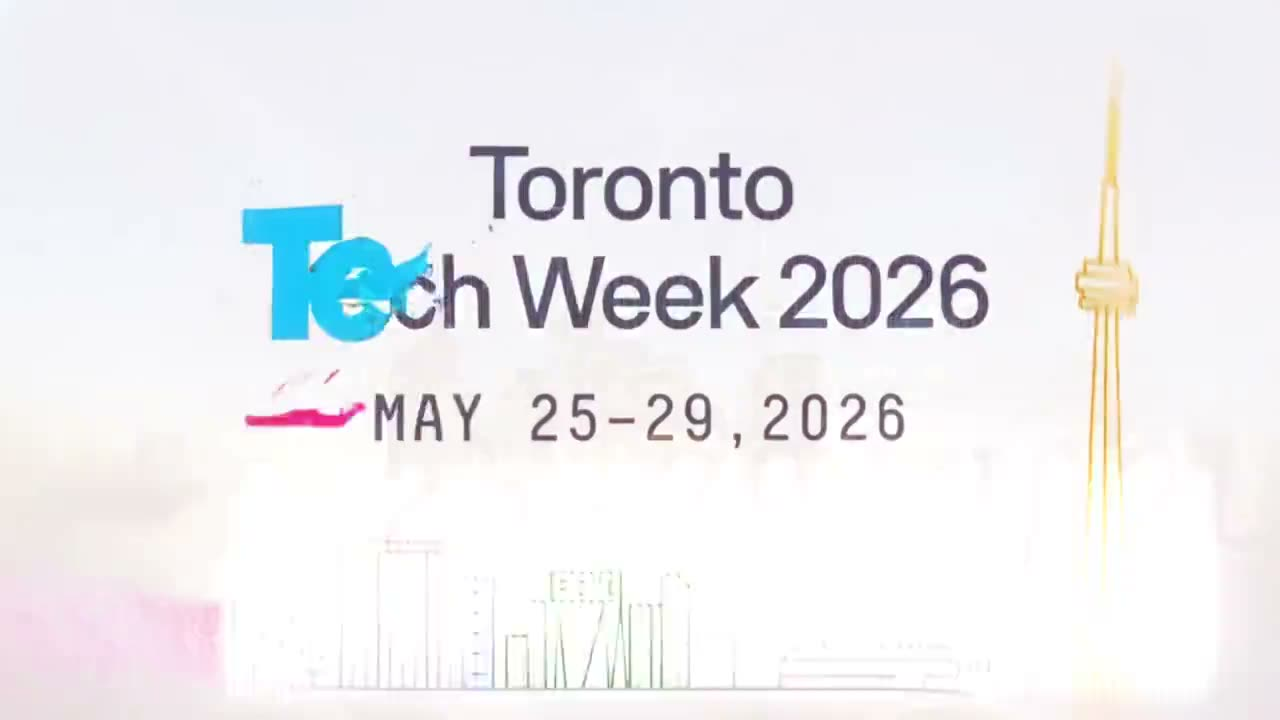
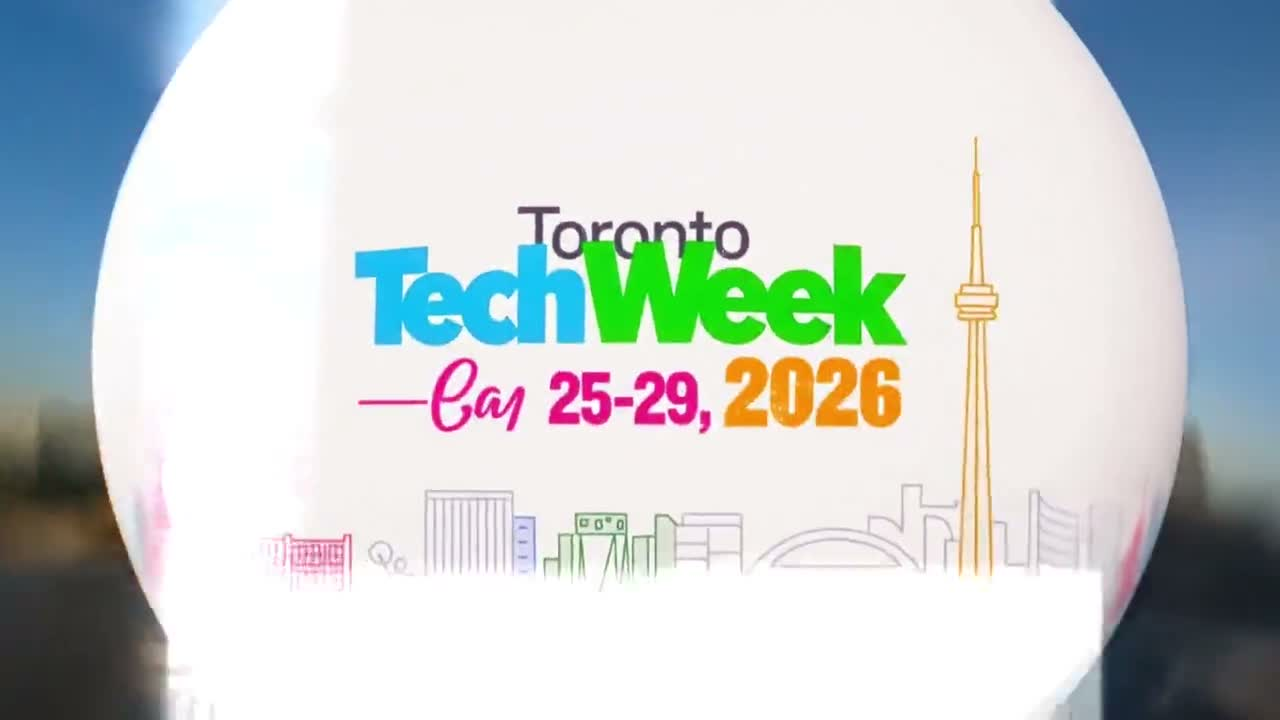
Use circular Toronto Tech Week thumbnail

diff --git a/founder-videos.html b/founder-videos.html
@@ -4,7 +4,7 @@
 <section class="collection-hero reveal"><p class="section-kicker">03 / Founder</p><h1>Founder & startup stories.</h1><p class="lead">Building in public, founder energy, product demos, and stories from startup communities.</p><div class="collection-actions"><a class="btn" href="https://x.com/jeboymotion" target="_blank" rel="noopener">Open @jeboymotion ↗</a><a class="text-link" href="video-work.html">← All video work</a></div></section>
 <section class="collection-grid">
   <article class="collection-item reveal"><div class="collection-video"><video controls playsinline preload="metadata" poster="images/video-thumbs/Da0SbkrOvi7.jpg" src="videos/Startup-week.mp4"></video></div><div class="collection-body"><h2>Startup Week</h2><p>Founder energy and community from a week of building.</p><a class="text-link" href="https://www.instagram.com/jeboyofficial/reel/Da0SbkrOvi7/" target="_blank" rel="noopener">Open original post ↗</a></div></article>
-  <article class="collection-item reveal"><div class="collection-video"><video controls playsinline preload="metadata" poster="images/video-thumbs/DZ23zLDxdpp.jpg?v=2" src="videos/Toronto-tech-week.mp4"></video></div><div class="collection-body"><h2>Toronto Tech Week</h2><p>A recap of Toronto’s startup and technology community.</p><a class="text-link" href="https://www.instagram.com/jeboyofficial/reel/DZ23zLDxdpp/" target="_blank" rel="noopener">Open original post ↗</a></div></article>
+  <article class="collection-item reveal"><div class="collection-video"><video controls playsinline preload="metadata" poster="images/video-thumbs/DZ23zLDxdpp.jpg?v=3" src="videos/Toronto-tech-week.mp4"></video></div><div class="collection-body"><h2>Toronto Tech Week</h2><p>A recap of Toronto’s startup and technology community.</p><a class="text-link" href="https://www.instagram.com/jeboyofficial/reel/DZ23zLDxdpp/" target="_blank" rel="noopener">Open original post ↗</a></div></article>
   <article class="collection-item reveal"><div class="collection-video"><video controls playsinline preload="metadata" poster="images/video-thumbs/inhand-demo-video.jpg" src="videos/inhand-demo-video.mp4"></video></div><div class="collection-body"><h2>Inhand Demo Video</h2><p>A concise product story for a startup demo.</p><a class="text-link" href="video-work.html">Watch in the full portfolio</a></div></article>
   <article class="collection-item reveal"><div class="collection-video"><video controls playsinline preload="metadata" poster="images/video-thumbs/DbVvhLrMIWG.jpg" src="videos/dolly-hackathon-demo.mp4"></video></div><div class="collection-body"><h2>Dolly Hackathon Demo</h2><p>A founder-focused demo created for a hackathon build.</p><a class="text-link" href="https://www.instagram.com/dollysetgo/reel/DbVvhLrMIWG/" target="_blank" rel="noopener">Open original post ↗</a></div></article>
 </section></main></div><script src="js/main.js" defer></script></body></html>

diff --git a/video-work.html b/video-work.html
@@ -6,4 +6,4 @@
 <section class="netflix-section reveal"><div class="netflix-section-heading"><h2>Founder & startup stories</h2><a href="founder-videos.html">View all →</a></div><div class="netflix-row"><a class="netflix-card portrait" href="https://www.instagram.com/dollysetgo/reel/DbVvhLrMIWG/" target="_blank" rel="noopener"><img src="images/video-thumbs/DbVvhLrMIWG.jpg" alt="Founder story"><span>Founder story</span></a><a class="netflix-card" href="https://x.com/jeboymotion/status/2088747633821065670?s=20" target="_blank" rel="noopener"><img src="images/CBC-backend-photo.JPG" alt="Building in public"><span>Building in public</span></a><a class="netflix-card" href="https://www.instagram.com/jeboyofficial/reel/DaDkTh_u3FL/" target="_blank" rel="noopener"><img src="images/video-thumbs/DaDkTh_u3FL.jpg" alt="AI and building"><span>Ideas become products</span></a></div></section>
 <section class="netflix-section reveal"><div class="netflix-section-heading"><h2>Life edits & vlogs</h2><a href="personal-videos.html">View all →</a></div><div class="netflix-row"><a class="netflix-card portrait" href="https://www.instagram.com/jeboymotion/reel/DcU87i9xpJk/" target="_blank" rel="noopener"><img src="images/video-thumbs/DcU87i9xpJk.jpg" alt="Life in motion"><span>Life in motion</span></a><a class="netflix-card" href="https://www.instagram.com/jeboyofficial/reel/DZpw2imOyVN/" target="_blank" rel="noopener"><img src="images/video-thumbs/DZpw2imOyVN.jpg" alt="Off the clock"><span>Off the clock</span></a><a class="netflix-card portrait" href="https://www.instagram.com/jeboyofficial/reel/DanmgzNulTB/" target="_blank" rel="noopener"><img src="images/video-thumbs/DanmgzNulTB.jpg" alt="Personal edit"><span>Personal edit</span></a><a class="netflix-card portrait" href="https://www.instagram.com/jeboyofficial/reel/DbtDjXzOtMM/" target="_blank" rel="noopener"><img src="images/video-thumbs/DbtDjXzOtMM.jpg" alt="Life captured"><span>Life, captured</span></a></div></section>
 <section class="netflix-section reveal"><div class="netflix-section-heading"><h2>Client work · Core Vizuals</h2><a href="https://corevizuals.pixieset.com/videoportfolio/videoportfolio/" target="_blank" rel="noopener">Core Vizuals portfolio ↗</a></div><div class="netflix-row" id="client-work-row"></div></section>
-</main></div><script src="js/page-soundtrack.js?v=1"></script><script src="js/native-video-modal.js?v=33"></script><script src="js/main.js" defer></script></body></html>
+</main></div><script src="js/page-soundtrack.js?v=1"></script><script src="js/native-video-modal.js?v=34"></script><script src="js/main.js" defer></script></body></html>

diff --git a/js/native-video-modal.js b/js/native-video-modal.js
@@ -36,7 +36,7 @@ const thumbnailByVideo = {
   'renn-jewelry.mp4': 'DaIzAoYuklT.jpg',
   'spiderman.mp4': 'DbtDjXzOtMM.jpg',
   'dolly-hackathon-demo.mp4': 'DbVvhLrMIWG.jpg',
-  'Toronto-tech-week.mp4': 'DZ23zLDxdpp.jpg?v=2',
+  'Toronto-tech-week.mp4': 'DZ23zLDxdpp.jpg?v=3',
   'Startup-week.mp4': 'Da0SbkrOvi7.jpg'
 };
 
